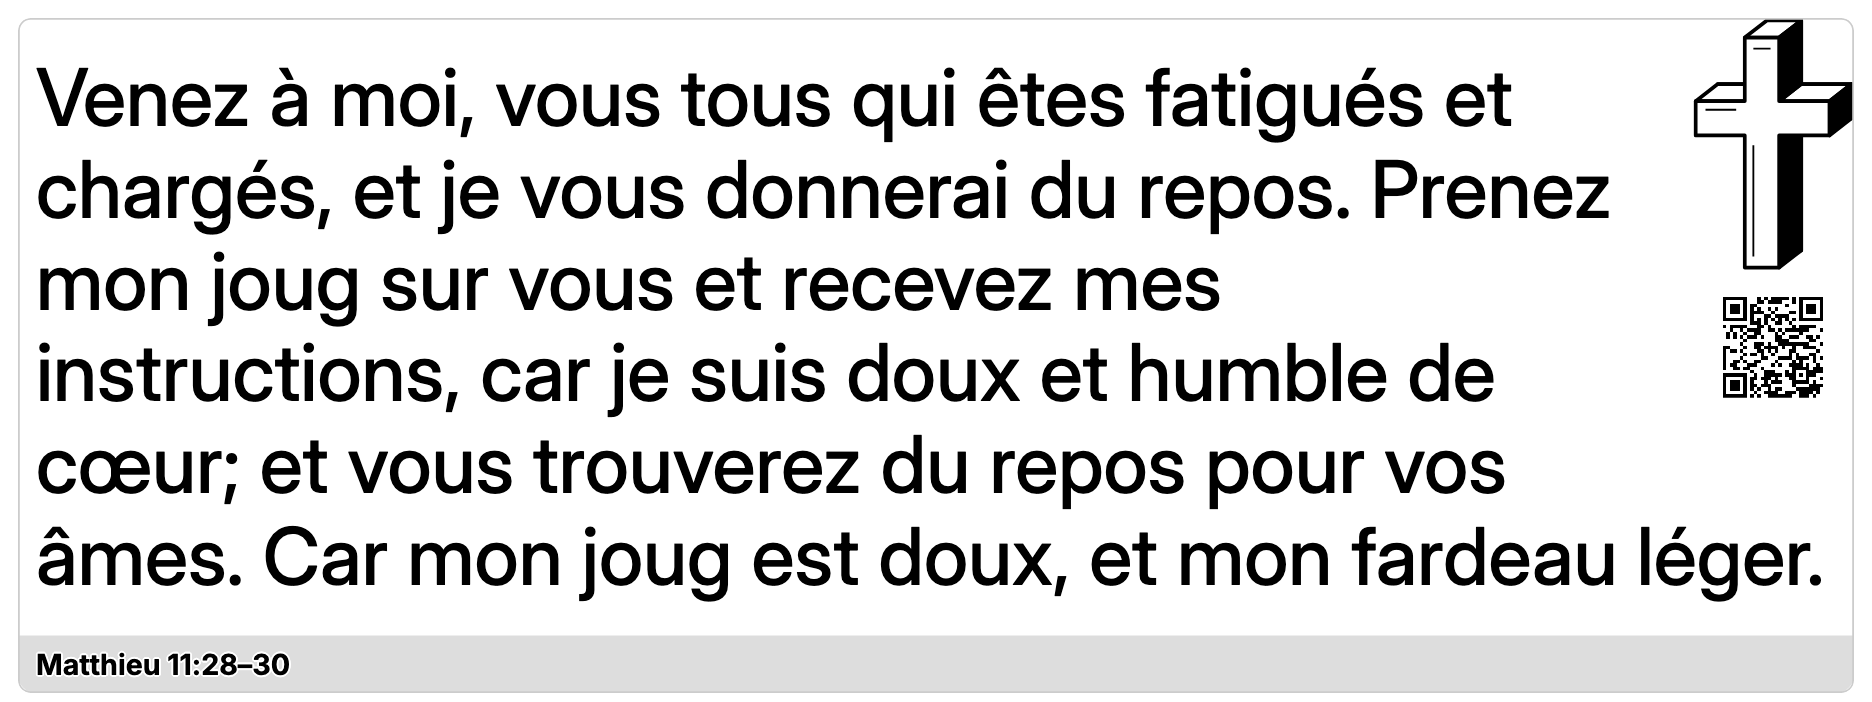
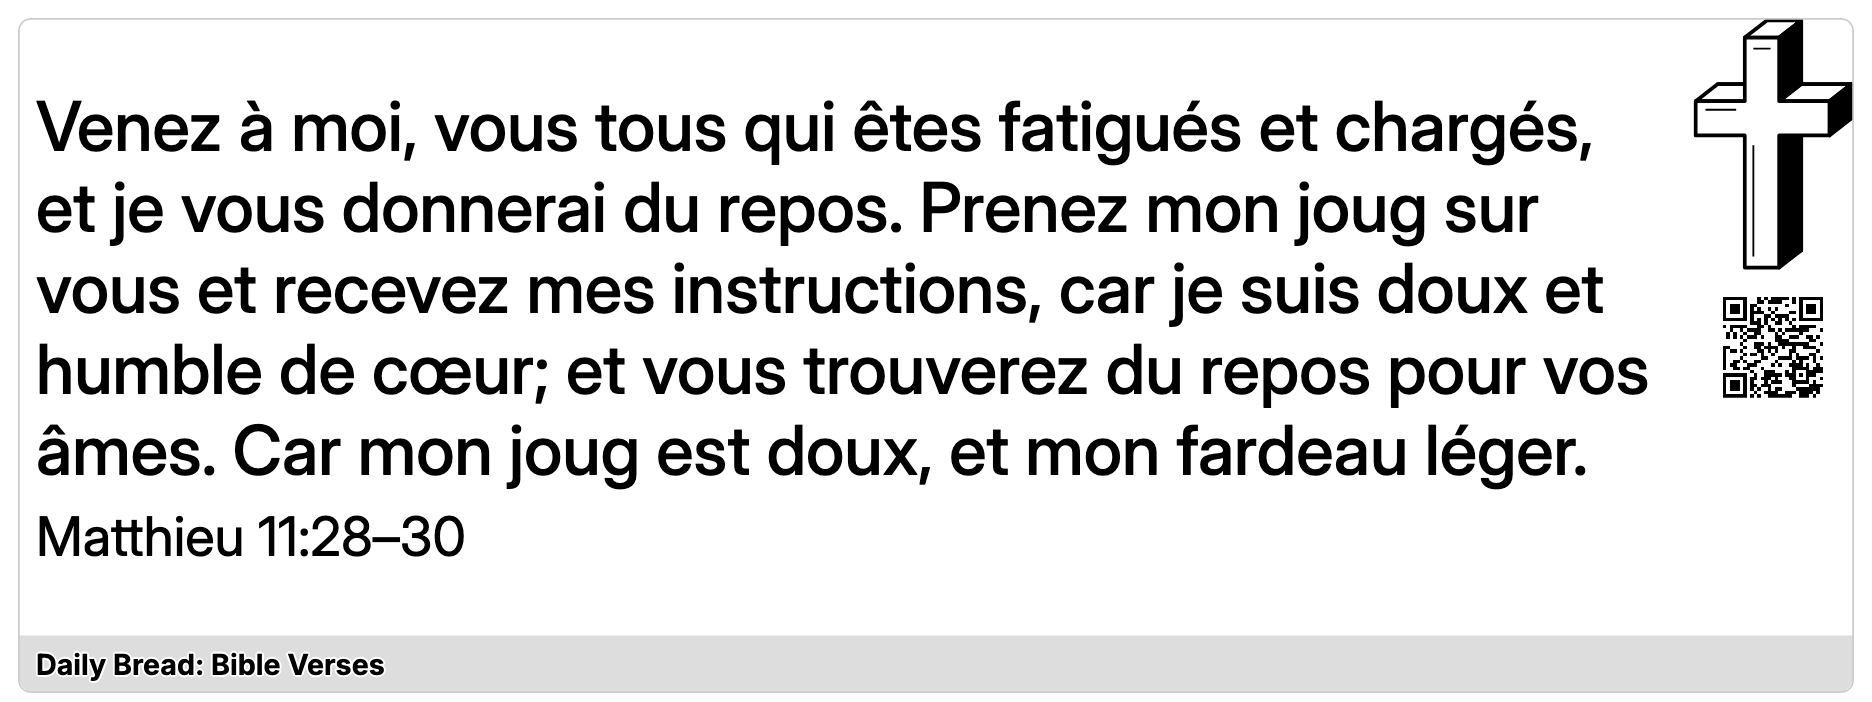
Show the reference under the passage when it fits
The reference now sits under the passage in title type, and the bottom
bar shows the plugin name. After fitting, if the passage would be smaller
than 1.25 times the reference, the reference moves back into the bar and
the passage refits. Review metrics accept the reference in either place,
check its lines against the QR code and cross, and mark bar fallbacks in
the typography matrix.

Changed region(s): [[0.0, 0.0897, 0.9605, 0.8675], [0.0, 0.9274, 0.2169, 0.9872]]

diff --git a/packages/plugin-tools/src/review-metrics.js b/packages/plugin-tools/src/review-metrics.js
@@ -6,7 +6,6 @@ export function measureReview({ expected, missingTitle, missingText, qr, recover
   let typography = null;
   const overflowFragments = [];
   const passage = document.querySelector('[data-verse-id]');
-  const reference = document.querySelector('[data-footer-reference]');
   const view = document.querySelector('.view');
   const layout = document.querySelector('.layout');
   const rect = element => {
@@ -20,7 +19,12 @@ export function measureReview({ expected, missingTitle, missingText, qr, recover
   const visible = element => { const style = getComputedStyle(element); return style.display !== 'none' && style.visibility !== 'hidden' && Number(style.opacity) > 0 && element.getBoundingClientRect().height > 0; };
   const text = element => element?.textContent.replace(/\s+/g, ' ').trim() ?? '';
   const normalize = value => value.replace(/\s+/g, ' ').trim();
-  if (!view || !layout || !reference) errors.push('Missing view, layout, or reference.');
+  // The reference sits under the passage when it fits, otherwise in the title bar.
+  const references = Array.from(document.querySelectorAll('[data-content-reference], [data-footer-reference]')).filter(visible);
+  const reference = references[0] ?? null;
+  const footerName = document.querySelector('[data-footer-name]');
+  if (!view || !layout) errors.push('Missing view or layout.');
+  if (expected && references.length !== 1) errors.push(references.length ? 'The reference is shown twice.' : 'The reference is missing or hidden.');
   if (expected) {
     if (!passage || passage.dataset.verseId !== expected.id) errors.push('The selected passage does not match the case.');
     if (text(passage) !== normalize(expected.text)) errors.push('Scripture text differs from the complete publisher passage.');
@@ -69,6 +73,13 @@ export function measureReview({ expected, missingTitle, missingText, qr, recover
         }));
       }
       const overlaps = element => lines.some(a => { const b = rect(element); return Math.min(a.right, b.right) - Math.max(a.left, b.left) > 1 && Math.min(a.bottom, b.bottom) - Math.max(a.top, b.top) > 1; });
+      const contentReference = reference?.matches('[data-content-reference]') ? reference : null;
+      if (contentReference) {
+        const range = document.createRange(); range.selectNodeContents(contentReference);
+        const referenceLines = Array.from(range.getClientRects()).filter(b => b.width > 1 && b.height > 1);
+        const hits = element => referenceLines.some(a => { const b = rect(element); return Math.min(a.right, b.right) - Math.max(a.left, b.left) > 1 && Math.min(a.bottom, b.bottom) - Math.max(a.top, b.top) > 1; });
+        if ((context && hits(context)) || Array.from(document.querySelectorAll('[data-reading-cross]')).some(cross => cross.getClientRects().length && visible(cross) && hits(cross))) errors.push('Reference overlaps the QR code or cross.');
+      }
       if (context && overlaps(context)) errors.push('Passage overlaps the QR code.');
       if (Array.from(document.querySelectorAll('[data-reading-cross]')).some(cross => cross.getClientRects().length && visible(cross) && overlaps(cross))) errors.push('Passage overlaps the cross.');
       if (lines.length) {
@@ -81,7 +92,7 @@ export function measureReview({ expected, missingTitle, missingText, qr, recover
         Object.assign(probe.style, { position: 'absolute', visibility: 'hidden', width: 'min-content', minWidth: '0' });
         passage.parentElement.append(probe);
         const wordBound = probe.getBoundingClientRect().width > passage.parentElement.getBoundingClientRect().width;
-        typography = { fontSize: parseFloat(getComputedStyle(passage).fontSize), startSize: parseFloat(getComputedStyle(probe).fontSize), fill: content > 0 ? Math.round(100 * (bottom - top) / content) : null, lines: new Set(lines.map(b => Math.round(b.top))).size, wordBound };
+        typography = { fontSize: parseFloat(getComputedStyle(passage).fontSize), startSize: parseFloat(getComputedStyle(probe).fontSize), fill: content > 0 ? Math.round(100 * (bottom - top) / content) : null, lines: new Set(lines.map(b => Math.round(b.top))).size, wordBound, reference: reference?.matches('[data-content-reference]') ? 'content' : 'bar' };
         probe.remove();
         if (typography.fontSize < minFontSize) warnings.push(`Scripture fits at ${typography.fontSize}px, below the ${minFontSize}px legibility floor.`);
         if (typography.fontSize < typography.startSize && !wordBound && typography.fill < minFill) warnings.push(`Scripture shrank to ${typography.fontSize}px while filling ${typography.fill}% of the layout; reserved space may be wasted.`);
@@ -96,7 +107,9 @@ export function measureReview({ expected, missingTitle, missingText, qr, recover
     if (message && (!visible(message) || view && !inside(rect(message), rect(view)))) errors.push('Recovery instruction is clipped or hidden.');
   }
   const viewport = { left: 0, top: 0, right: innerWidth, bottom: innerHeight };
-  if (reference && view && (!inside(rect(reference), rect(view)) || !inside(rect(reference), viewport) || !visible(reference))) errors.push('Reference is clipped or hidden.');
+  const label = reference ?? footerName;
+  if (!label || !visible(label)) errors.push('The title bar is missing its label.');
+  else if (view && (!inside(rect(label), rect(view)) || !inside(rect(label), viewport))) errors.push('Reference is clipped or hidden.');
   for (const image of document.images) {
     if (!image.complete || !image.naturalWidth) errors.push('An image failed to load.');
     // Responsive markup includes alternative images hidden by their ancestors.

diff --git a/packages/plugin-tools/src/review-report.js b/packages/plugin-tools/src/review-report.js
@@ -26,7 +26,7 @@ export function reviewSummary(manifest, captured, { selected = manifest.total, s
 // agents compare sizing across devices without reading every screenshot.
 export function typographyCell(result) {
   const t = result?.metrics?.typography;
-  return t ? `${t.fontSize}px ${t.fill}%${result.metrics.warnings?.length ? ' !' : ''}` : null;
+  return t ? `${t.fontSize}px ${t.fill}%${t.reference === 'bar' ? ' bar' : ''}${result.metrics.warnings?.length ? ' !' : ''}` : null;
 }
 
 export function typographyMatrix(manifest, captured) {
@@ -34,7 +34,7 @@ export function typographyMatrix(manifest, captured) {
   const columns = manifest.scenarios.map(s => s.id);
   const rows = manifest.screens.map(screen => ({ screen: screen.id, cells: Object.fromEntries(columns.map(id => [id, typographyCell(results.get(`${id}--${screen.id}`))])) }))
     .filter(row => Object.values(row.cells).some(Boolean));
-  return { legend: 'fitted font px, % of layout height filled by Scripture, ! = warning', columns, rows };
+  return { legend: 'fitted font px, % of layout height filled by Scripture, bar = reference moved to the title bar, ! = warning', columns, rows };
 }
 
 export function formatTypography({ columns, rows }) {

diff --git a/apps/bible-verses/README.md b/apps/bible-verses/README.md
@@ -17,7 +17,7 @@ Publication titles, descriptions, localized overview copy and search/share metad
 - Full, half horizontal, half vertical, and quadrant layouts. Complete passage text and reference in every layout. The full view wraps Scripture around a larger dimensional cross at the top right. Wide half and quadrant views keep the cross at the top right; left/right halves center it above the verse, as do top/bottom halves in portrait. The cross remains visible with QR enabled or disabled. Text continues beneath the cross in wide halves and quadrants. In full views and portrait quadrants, the chapter QR code sits at the bottom right above the reference bar. Landscape wide halves and quadrants stack it under the cross so the text wraps around both; centered-cross halves put it at the top right. Full views use a 128px QR footprint, centered halves 80–96px, and wide halves and quadrants 64px with a smaller quiet zone, all scaled by the framework. OG cross sizes are restrained, while TRMNL X uses larger artwork.
 - No hosted backend, Bible API subscription, authentication, or API key.
 
-Passage text dynamically fits the measured reading area using [TRMNL Fit Value](https://trmnl.com/framework/docs/3.4/fit_value). The bottom bar shows only the reference, giving the complete passage more room; Scripture is never truncated. Two small, scoped CSS rules in shared.liquid enable the requested full, wide-half and quadrant cross wrap; other styling uses the framework.
+Passage text dynamically fits the measured reading area using [TRMNL Fit Value](https://trmnl.com/framework/docs/3.4/fit_value). The reference sits under the passage in larger type, with the plugin name in the bottom bar. When the reference would leave the passage smaller than 1.25 times its own size, it moves into the bar instead. Scripture is never truncated. Two small, scoped CSS rules in shared.liquid enable the requested full, wide-half and quadrant cross wrap; other styling uses the framework.
 
 ## Install on TRMNL
 
